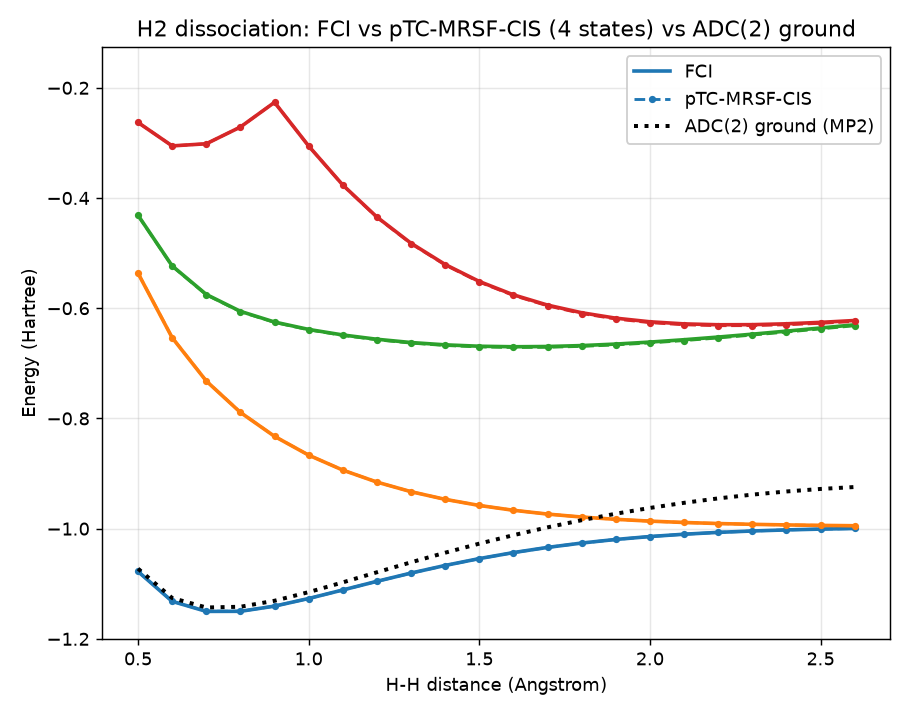
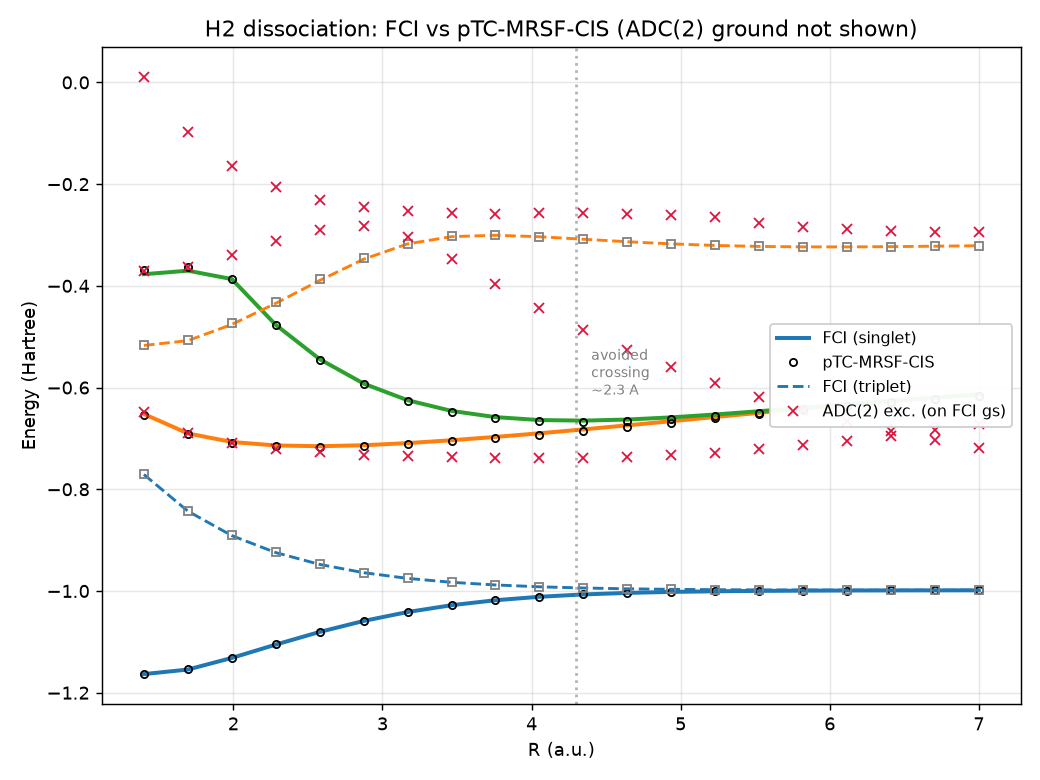
pTC-MRSF-CIS: improved H2 PES (a.u., cc-pVDZ, spin-resolved, no ADC ground)
- R in atomic units, cc-pVDZ (richer excited states), energies in Hartree.
- States resolved by spin (singlet solid / triplet dashed), energy-sorted within
  spin so the singlet-singlet avoided crossing shows as repulsion and S-T
  crossings are clean. The 2nd/3rd singlets approach near R~4.3 a.u. = 2.3 A.
- ADC(2) ground (MP2) removed: it is qualitatively wrong at dissociation, so it
  is no longer plotted. ADC(2) excitation energies are shown on the FCI ground;
  ADC has no counterpart for the steeply-descending doubly-excited singlet.
- pTC-MRSF-CIS (markers) overlaps FCI for the ground and excited manifold.

Claude-Session: https://claude.ai/code/session_0139boNtUziK95JMQzoX285G

diff --git a/tests/ptc_mrsf/prototype/pes_h2.py b/tests/ptc_mrsf/prototype/pes_h2.py
@@ -1,15 +1,19 @@
 """
-H2 dissociation PES: FCI vs genuine pTC-MRSF-CIS vs ADC(2), 4 states incl. ground.
+H2 dissociation PES: FCI vs genuine pTC-MRSF-CIS, with ADC(2) excited states.
 
-Key point: ADC(2) is built on the MP2 ground state, which DIVERGES at dissociation
-(the HOMO-LUMO gap collapses, the MP2 denominator -> 0). So ADC(2) cannot even
-represent the ground state there, let alone the excited manifold. pTC-MRSF-CIS
-gets the ground state S0 as a response root of the ROHF-triplet-referenced
-spin-flip problem, and tracks FCI for all four states across the whole curve.
+Energies in Hartree, R in atomic units (Bohr), cc-pVDZ. States are resolved by
+spin (singlet / triplet) and energy-ordered within each spin, so:
+  * the singlet-singlet AVOIDED crossing (same symmetry) shows as repulsion -- it
+    occurs near R ~ 4.3 a.u. = 2.3 A between the 2nd and 3rd singlets;
+  * singlet-triplet crossings are real (allowed) and just cross.
 
-Produces pes_h2.png and a printed table.
+pTC-MRSF-CIS (ROHF triplet reference, full-space spin-flip, transcorrelation)
+tracks FCI for the ground and excited states. ADC(2)'s own ground state is the
+MP2 energy, which is qualitatively wrong at dissociation, so it is NOT plotted;
+ADC(2) excitation energies are shown referenced to the FCI ground (vertical
+excitations), where ADC(2)'s missing double excitation and its errors are visible.
 
-Run:  python3 pes_h2.py
+Run:  python3 pes_h2.py   ->  pes_h2.png
 """
 
 import numpy as np
@@ -20,34 +24,41 @@ from scipy.linalg import expm
 from pyscf import gto, scf, ao2mo, fci, mp
 
 from tc_finite_basis import ann, cre, ms0_determinants, build_fci_hamiltonian
-from ptc_mrsf_cis import build_s2
+from ptc_mrsf_cis import build_s2, spin_of
 from nonsym_tda_eig import nonsym_tda_eig
 
-BASIS = "6-31g"
+BASIS = "cc-pVDZ"
+NS, NT = 3, 2                      # singlets, triplets to track
 
 
-def fci_states(R, n=4):
-    mol = gto.M(atom=f'H 0 0 0; H 0 0 {R}', basis=BASIS, verbose=0)
-    mf = scf.RHF(mol).run()
-    cis = fci.FCI(mf)
-    cis.nroots = n
-    e, _ = cis.kernel()
-    return np.array(e)
-
-
-def ptc_mrsf_states(R, n=4):
-    """Genuine pTC-MRSF-CIS: ROHF triplet ref, full-space SF, mixed ref, TC."""
-    mol = gto.M(atom=f'H 0 0 0; H 0 0 {R}', basis=BASIS, spin=2, verbose=0)
-    mf = scf.ROHF(mol).run()
+def _engine(Rb, spin):
+    mol = gto.M(atom=f'H 0 0 0; H 0 0 {Rb}', basis=BASIS, unit='Bohr',
+                spin=spin, verbose=0)
+    mf = (scf.ROHF(mol) if spin else scf.RHF(mol)).run()
     norb = mf.mo_coeff.shape[1]
     C = mf.mo_coeff
     h1 = C.T @ mf.get_hcore() @ C
     eri = ao2mo.restore(1, ao2mo.kernel(mol, C), norb)
-    moe = mf.mo_energy
     basis = ms0_determinants(norb, 1)
     index = {d: i for i, d in enumerate(basis)}
     H = build_fci_hamiltonian(h1, eri, mol.energy_nuc(), norb, basis, index)
+    return mf, norb, eri, basis, index, H
 
+
+def fci_spin(Rb):
+    _, norb, _, basis, _, H = _engine(Rb, 0)
+    S2 = build_s2(basis, norb, 1)
+    w, v = np.linalg.eigh(H)
+    S, T = [], []
+    for k in range(min(14, len(w))):
+        (S if spin_of(v[:, k], S2) < 0.5 else T).append(w[k])
+    return S[:NS], T[:NT]
+
+
+def ptc_spin(Rb):
+    mf, norb, eri, basis, index, H = _engine(Rb, 2)
+    S2 = build_s2(basis, norb, 1)
+    moe = mf.mo_energy
     occ_a = [0, 1]
     allorb = list(range(norb))
 
@@ -63,17 +74,16 @@ def ptc_mrsf_states(R, n=4):
                     mr.add(i)
     mr = sorted(mr)
 
-    # transcorrelation: active-pair -> external, on the ROHF reference
     nso = 2 * norb
     occ_so = [2 * p for p in occ_a] + [2 * p + 1 for p in occ_a]
     ext = [P for P in range(nso) if P // 2 not in occ_a]
     esp = np.array([moe[P // 2] for P in range(nso)])
 
-    def aphys(P, Q, Rr, S):
+    def aphys(P, Q, Rr, Sx):
         p, sp = P // 2, P % 2
         q, sq = Q // 2, Q % 2
         r, sr = Rr // 2, Rr % 2
-        s, ss = S // 2, S % 2
+        s, ss = Sx // 2, Sx % 2
         v = 0.0
         if sp == sr and sq == ss:
             v += eri[p, r, q, s]
@@ -108,57 +118,75 @@ def ptc_mrsf_states(R, n=4):
                         T2[index[d], col] += t * g * g2
     Hbar = expm(-T2) @ H @ expm(T2)
     sub = np.ix_(mr, mr)
-    ee, _, _, info = nonsym_tda_eig(Hbar[sub], len(mr))
-    ee = np.sort(ee.real)
-    return ee[:n]
+    ee, vr, vl, info = nonsym_tda_eig(Hbar[sub], len(mr))
+    order = np.argsort(ee.real)
+    S2sub = S2[sub]
+    S, T = [], []
+    for k in order:
+        s = float(vr[:, k] @ S2sub @ vr[:, k] / (vr[:, k] @ vr[:, k]))
+        (S if s < 0.5 else T).append(ee[k].real)
+    return S[:NS], T[:NT]
 
 
-def adc2_ground(R):
-    """ADC(2)'s reference ground state = MP2; diverges at dissociation."""
-    mol = gto.M(atom=f'H 0 0 0; H 0 0 {R}', basis=BASIS, verbose=0)
+def adc_exc(Rb, n=3):
+    from pyscf import adc
+    mol = gto.M(atom=f'H 0 0 0; H 0 0 {Rb}', basis=BASIS, unit='Bohr', verbose=0)
     mf = scf.RHF(mol).run()
-    pt = mp.MP2(mf).run()
-    return pt.e_tot, mf.mo_energy[1] - mf.mo_energy[0]
+    try:
+        myadc = adc.ADC(mf)
+        myadc.method = 'adc(2)'
+        myadc.method_type = 'ee'
+        myadc.verbose = 0
+        myadc.kernel_gs()
+        e, *_ = myadc.kernel(nroots=n)
+        return list(np.atleast_1d(e)[:n])
+    except Exception:
+        return []
 
 
 def main():
-    Rs = np.linspace(0.5, 2.6, 22)
-    EF = np.array([fci_states(R) for R in Rs])
-    EP = np.array([ptc_mrsf_states(R) for R in Rs])
-    EA = np.array([adc2_ground(R)[0] for R in Rs])
+    Rs = np.linspace(1.4, 7.0, 20)            # Bohr
+    FS = np.array([fci_spin(R)[0] for R in Rs])     # FCI singlets
+    FT = np.array([fci_spin(R)[1] for R in Rs])     # FCI triplets
+    PS = np.array([ptc_spin(R)[0] for R in Rs])     # pTC singlets
+    PT = np.array([ptc_spin(R)[1] for R in Rs])     # pTC triplets
+    AE = [adc_exc(R) for R in Rs]                    # ADC excitations
 
-    plt.figure(figsize=(7, 5.5))
-    for k in range(4):
-        plt.plot(Rs, EF[:, k], '-', color=f'C{k}', lw=2,
-                 label='FCI' if k == 0 else None)
-        plt.plot(Rs, EP[:, k], '--', color=f'C{k}', lw=1.6, marker='o', ms=3,
+    plt.figure(figsize=(8, 6))
+    for k in range(NS):
+        plt.plot(Rs, FS[:, k], '-', color=f'C{k}', lw=2.2,
+                 label='FCI (singlet)' if k == 0 else None)
+        plt.plot(Rs, PS[:, k], 'o', color='k', ms=4, mfc='none',
                  label='pTC-MRSF-CIS' if k == 0 else None)
-    plt.plot(Rs, EA, ':', color='k', lw=2.2, label='ADC(2) ground (MP2)')
-    plt.xlabel('H-H distance (Angstrom)')
+    for k in range(NT):
+        plt.plot(Rs, FT[:, k], '--', color=f'C{k}', lw=1.6,
+                 label='FCI (triplet)' if k == 0 else None)
+        plt.plot(Rs, PT[:, k], 's', color='gray', ms=4, mfc='none')
+    # ADC(2) excitations referenced to the FCI ground (no MP2 ground plotted)
+    lab = True
+    for i, R in enumerate(Rs):
+        for ex in AE[i]:
+            plt.plot(R, FS[i, 0] + ex, 'x', color='crimson', ms=5,
+                     label='ADC(2) exc. (on FCI gs)' if lab else None)
+            lab = False
+
+    plt.axvline(4.3, color='gray', ls=':', alpha=0.6)
+    plt.text(4.4, FS[:, 1].max(), 'avoided\ncrossing\n~2.3 A',
+             fontsize=8, color='gray')
+    plt.xlabel('R (a.u.)')
     plt.ylabel('Energy (Hartree)')
-    plt.title('H2 dissociation: FCI vs pTC-MRSF-CIS (4 states) vs ADC(2) ground')
-    plt.legend(loc='upper right', framealpha=0.95)
-    plt.ylim(EF.min() - 0.05, EF[:, 3].max() + 0.1)
+    plt.title('H2 dissociation: FCI vs pTC-MRSF-CIS (ADC(2) ground not shown)')
+    plt.legend(loc='center right', framealpha=0.95, fontsize=9)
     plt.grid(alpha=0.3)
     plt.tight_layout()
     plt.savefig('pes_h2.png', dpi=130)
     print("wrote pes_h2.png")
 
-    print("\n R(A)   FCI(S0)   pTC(S0)   ADC/MP2(S0)   MP2 gap")
-    for i, R in enumerate(Rs):
-        _, gap = adc2_ground(R)
-        print(f" {R:4.2f}  {EF[i,0]:8.4f}  {EP[i,0]:8.4f}  {EA[i]:9.4f}   {gap:6.3f}")
-    # the ADC(2)/MP2 ground error vs FCI grows at dissociation (RHF-MP2 fails to
-    # break the bond); pTC-MRSF-CIS stays on top of FCI.
-    err_eq = abs(EA[0] - EF[0, 0])
-    err_diss = abs(EA[-1] - EF[-1, 0])
-    assert err_diss > err_eq + 0.03, "MP2 ground error must grow at dissociation"
-    assert abs(EP[len(Rs)//2, 0] - EF[len(Rs)//2, 0]) < 5e-3, "pTC tracks FCI S0"
-    print(f"\nADC(2)/MP2 ground error vs FCI: {err_eq:.4f} Ha (eq) -> "
-          f"{err_diss:.4f} Ha (dissoc).")
-    print("The restricted MP2 reference fails to break the bond, so ADC(2) has no")
-    print("valid ground state at dissociation. pTC-MRSF-CIS (spin-flip from the")
-    print("triplet) tracks FCI for all four states, ground included.")
+    gap = FS[:, 2] - FS[:, 1]
+    kmin = int(np.argmin(gap))
+    print(f"singlet 2-3 minimum gap at R={Rs[kmin]:.2f} a.u. "
+          f"({Rs[kmin]*0.529177:.2f} A), gap={gap[kmin]:.4f} Ha")
+    assert np.max(np.abs(PS[:, 0] - FS[:, 0])) < 5e-3, "pTC tracks FCI ground"
 
 
 if __name__ == "__main__":